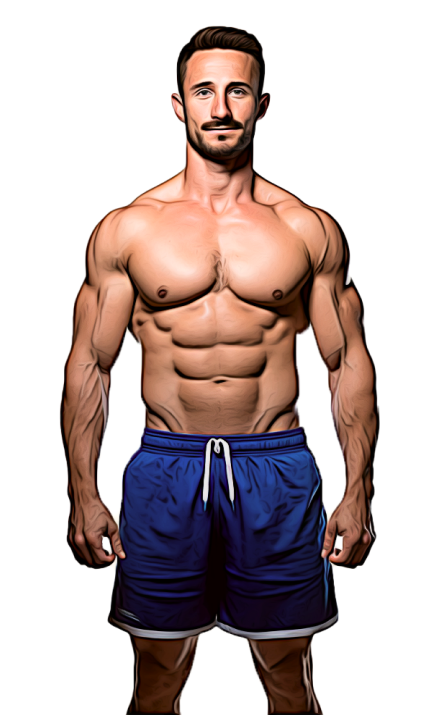
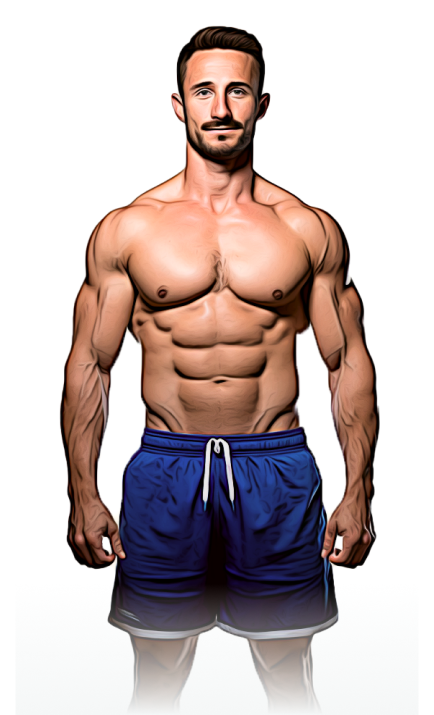
fix: исправление верстки

Changed region(s): [[0.2396, 0.8308, 0.7788, 1.0]]

diff --git a/src/components/Main/styles.module.css b/src/components/Main/styles.module.css
@@ -3,6 +3,7 @@ main {
     height: 100%; 
     flex-grow: 1;
     padding-bottom: clamp(0px, 107px, 107px);
+    background-color: #F5F7F7;
 }
 
 .main {
@@ -11,7 +12,7 @@ main {
     padding-left: clamp(20px, 11.9vw, 171px);
     padding-right: clamp(20px, 11.9vw, 171px);
     display: grid;
-    grid-template-columns: 30vw auto;
+    grid-template-columns: 39.5% auto;
     gap: clamp(10px, 5.5vw, 79px);
     align-items: start;
     justify-content: center;
@@ -37,8 +38,7 @@ main {
 }
 
 .img {
-    width: 30vw;
-    max-height: 715px;
+    width: 100%;
     height: 100%;
     display: flex;
     flex-direction: column;
@@ -48,15 +48,9 @@ main {
     background-size: contain;
 }
 
-.gradient {
-    width: 100%;
-    height: 12vh;
-    background: linear-gradient(1deg, #F5F7F7 0%, rgba(245, 247, 247, 0.00) 100%);
-}
-
 .card_section {
     width: 100%;
-    max-height: 426px;
+    max-height: 58%;
     display: grid;
     grid-template-columns: repeat(3, 1fr);
     align-items: center;
@@ -81,7 +75,7 @@ main {
 .text {
     color: #818798;
     font-family: 'PT-Root-UI';
-    font-size: 0.97vw;
+    font-size: clamp(14px, 0.97vw, 18px);;
     font-style: normal;
     font-weight: 400;
     line-height: 1.3;

diff --git a/src/components/Tariffs/styles.module.css b/src/components/Tariffs/styles.module.css
@@ -1,5 +1,5 @@
 .card {
-    max-height: 261px;
+    /* max-height: 261px; */
     height: 100%;
     padding: 3.1vw 1.9vw 1.8vw;
     border-radius: 20px;
@@ -30,13 +30,13 @@
     flex-direction: row;
     align-items: center;
     justify-content: flex-start;
-    gap: 18px;
+    gap: 30px;
     grid-column: 1 / span 3;
 }
 
 .card__sale {
-    width: 4.9vw;
-    height: 4.9vw;
+    width: 70px;
+    height: 70px;
     background-image: url('../../assets/Star.svg');
     background-repeat: no-repeat;
     background-size: contain;
@@ -45,7 +45,7 @@
     align-items: center;
 
     position: absolute;
-    top: -2.4vw;
+    top: -35px;
     right: 0;
 }
 
@@ -209,6 +209,7 @@
         justify-items: stretch;
         text-align: left;
         margin-top: 0;
+        gap: 0;
     }
 
     .card:not(:last-child) {

diff --git a/src/components/Main/Main.tsx b/src/components/Main/Main.tsx
@@ -39,9 +39,7 @@ const Main: React.FC<MainProps> = ({ tariffs, isVisible, isTimerExpired, handleT
                 Выберите подходящий тарифный план
             </h2>
             <div className={styles.main}>
-                <div className={styles.img}>
-                    <div className={styles.gradient}></div>
-                </div>
+                <div className={styles.img} />
                 <div className={styles.section}>
                     <div className={styles.card_section}>
                         {tariffs.map((tariff, index) => (

diff --git a/src/index.css b/src/index.css
@@ -11,11 +11,10 @@ body, #root {
   flex-direction: column;
   align-items: center;
   min-height: 100vh;
-  max-width: 100vw;
-  width: 100%;
-  background-color: #F5F7F7;
+  max-width: 1440px;
   font-family: 'Bebas Neue', 'PT-Root-UI', 'Bebas Neue Cyrillic', sans-serif;
   color: #2D3242;
+  margin: 0 auto;
 }
 
 .loading {
